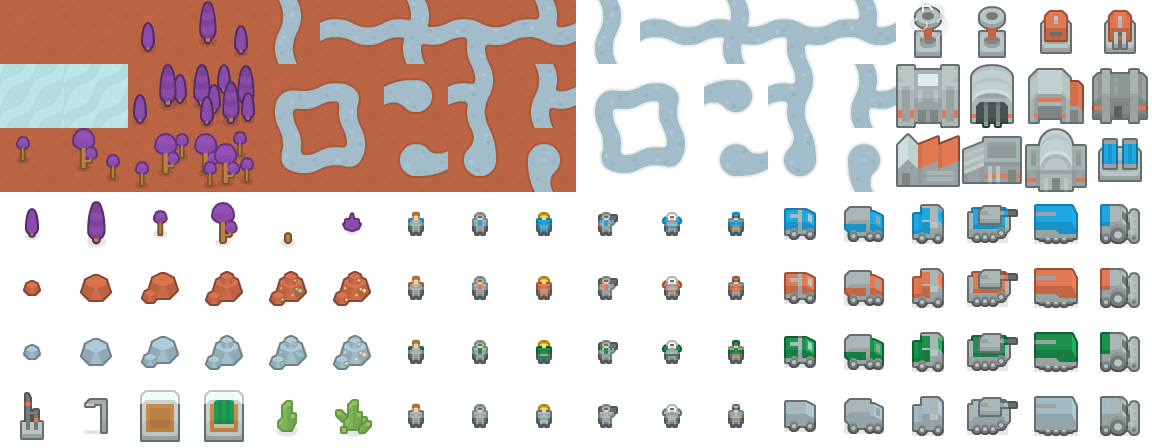
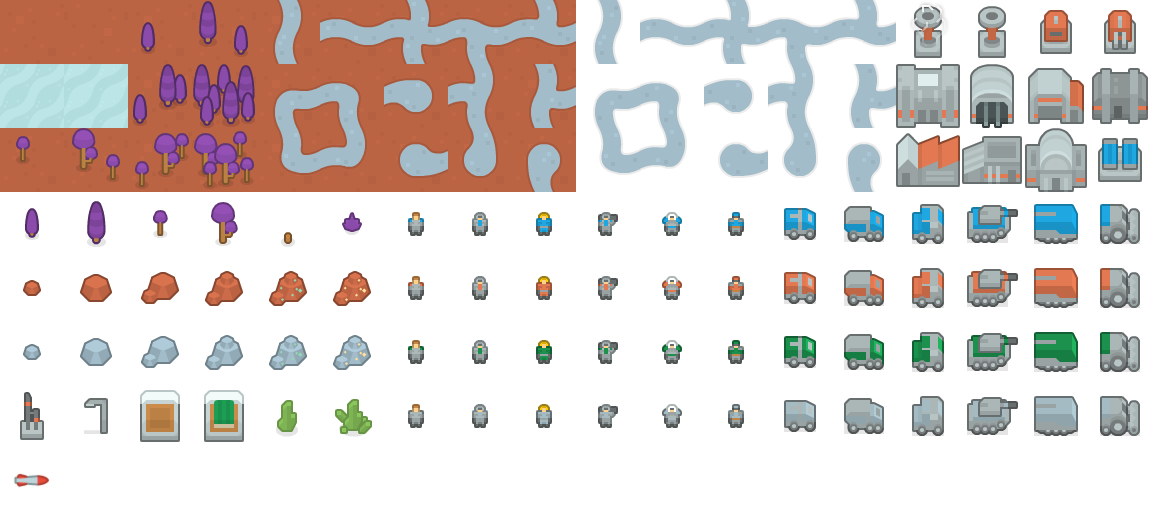
adds rocket-spawning logic when Tank shoots

diff --git a/assets/js/Units/Tank.js b/assets/js/Units/Tank.js
@@ -1,28 +1,35 @@
 import Unit from './Unit.js';
 import { UNIT_DATA } from '../initSettings.js';
+import Rocket from '../Rocket.js';
 
 export default class Tank extends Unit {
-    constructor(x, y, playerId) {
+    constructor(gridX, gridY, playerId) {
         const assetKey = (playerId === 1) ? "TANK_BLUE" : "TANK_GREEN";
-        super(x, y, assetKey, playerId, UNIT_DATA.TANK.HP, UNIT_DATA.TANK.COST, UNIT_DATA.TANK.SOUNDS);
+        super(gridX, gridY, assetKey, playerId, UNIT_DATA.TANK.HP, UNIT_DATA.TANK.COST, UNIT_DATA.TANK.SOUNDS);
         this.range = UNIT_DATA.TANK.RANGE;
         this.attackDamage = UNIT_DATA.TANK.DAMAGE;
-    }
+        this.rockets = [];
+    }       
 
-        
+    shoot(){
+        console.log("bumm");
+        let rocket = new Rocket(this.gridX, this.gridY);
+        this.rockets.push(rocket);
+    }
 
     clone() {
         let clone = new Tank(this.gridX, this.gridY, this.playerId);
         clone.maxHp = this.maxHp;
         clone.currentHp = this.currentHp;
         clone.asset = this.asset;
-        clone.x = this.x;
-        clone.y = this.y;
+        clone.gridX = this.gridX;
+        clone.gridY = this.gridY;
         clone.moveDirection = this.moveDirection
         clone.facing = this.facing
         clone.rotation = this.rotation;
         clone.flip = this.flip;
         clone.direction = this.direction;
+        clone.rockets = this.rockets;
         return clone;
     }
 }

diff --git a/assets/js/Player.js b/assets/js/Player.js
@@ -67,12 +67,12 @@ export default class Player extends EventEmitter {
                 const dist = Math.abs(target.gridX - this.selectedUnit.gridX) +
                     Math.abs(target.gridY - this.selectedUnit.gridY);
                 if (dist <= this.selectedUnit.range) {
-                    console.log("bumm");
+                    this.selectedUnit.shoot();
                     this.updateAp(1);
                 }
             }
         }
-        else if(target instanceof Base){
+        else if (target instanceof Base) {
             return
         }
         else if (this.selectedUnit && this.selectedUnit.state === "idle") {
@@ -121,6 +121,11 @@ export default class Player extends EventEmitter {
         this.base.draw(ctx, spriteSheet);
         this.entities.forEach(entity => {
             entity.draw(ctx, spriteSheet);
+            if (entity instanceof Tank) {
+                entity.rockets.forEach(rocket => {
+                    rocket.draw(ctx, spriteSheet);
+                });
+            }
         });
     }
 

diff --git a/assets/js/Rocket.js b/assets/js/Rocket.js
@@ -1,0 +1,8 @@
+import { TILE_SIZE } from "./initSettings.js";
+import Entity from "./Entity.js";
+
+export default class Rocket extends Entity{
+    constructor(gridX, gridY, playerId) {
+        super(gridX, gridY, "ROCKET", playerId);
+    }
+}

diff --git a/assets/js/initSettings.js b/assets/js/initSettings.js
@@ -83,6 +83,7 @@ export const ASSETS_MAP = {
 
     TANK_BLUE: { x: 15 * TILE_SIZE, y: 3 * TILE_SIZE, w: TILE_SIZE, h: TILE_SIZE },
     TANK_GREEN: { x: 15 * TILE_SIZE, y: 5 * TILE_SIZE, w: TILE_SIZE, h: TILE_SIZE },
+    ROCKET: { x: 0 * TILE_SIZE, y: 7 * TILE_SIZE, w: TILE_SIZE, h: TILE_SIZE },
 };
 
 export const shortHands = {